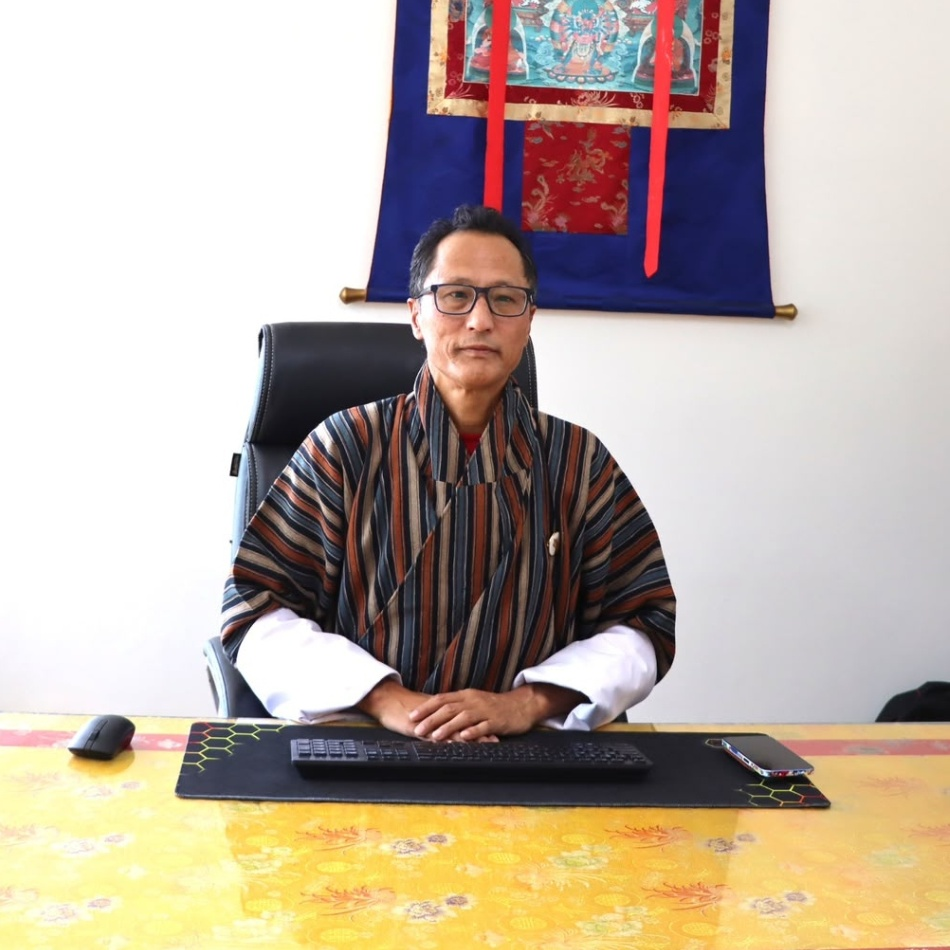
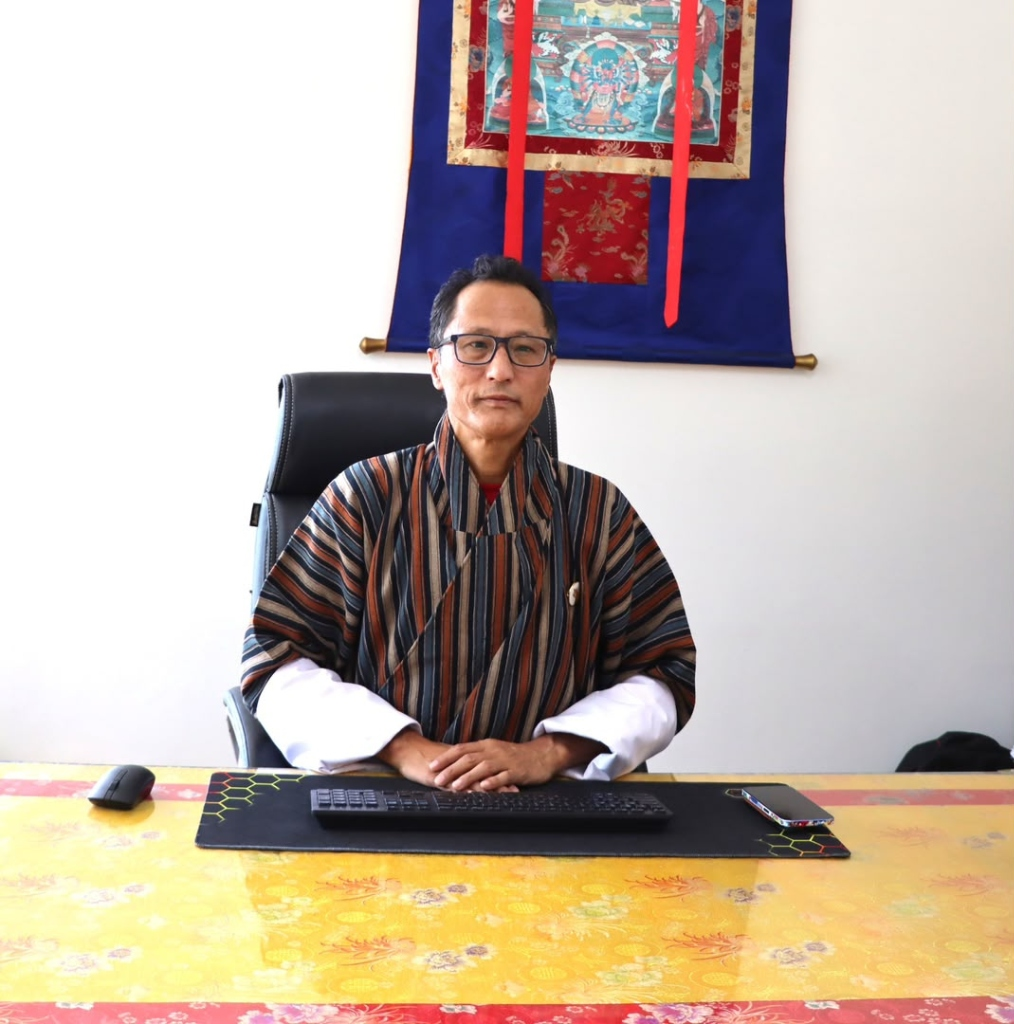
feat(governance): add Mr. Gyambo Sithey, PhD to AMC and Board of Trustees with updated portrait

diff --git a/src/routes/about/trustees.tsx b/src/routes/about/trustees.tsx
@@ -10,6 +10,7 @@ import trusteePemaTshering from "@/assets/bhtf/trustees/pema_tshering.jpg";
 import trusteeUgyenChoden from "@/assets/bhtf/trustees/ugyen_choden.jpg";
 import trusteeNorbuDendup from "@/assets/bhtf/trustees/norbu_dendup.jpeg";
 import trusteeChenchoNamgay from "@/assets/bhtf/trustees/chencho_t_namgay.jpeg";
+import trusteeDrGyambo from "@/assets/bhtf/trustees/dr_gyambo_sithey.jpg";
 import { AboutBottomCapsule } from "@/components/about-bottom-capsule";
 import { useLanguage } from "@/lib/i18n/language-context";
 import { FiduciaryMemberCard, type FiduciaryMember } from "@/components/fiduciary-member-card";
@@ -225,6 +226,34 @@ const trusteesList: FiduciaryMember[] = [
     photo: trusteeDrPhub,
     theme: "emerald",
   },
+  {
+    id: "trustee-gyambo",
+    orderNumber: 8,
+    name: "Mr. Gyambo Sithey, PhD",
+    nameDz: "སྐུ་ཞབས་ རྒྱལ་མཚན་སི་ཐེ། (འབུམ་རམས་པ)",
+    role: "Director & Member Secretary",
+    roleDz: "མདོ་ཆེན། / ཚོགས་མི་དྲུང་ཆེན།",
+    organization: "Director, Bhutan Health Trust Fund Secretariat",
+    organizationDz: "མདོ་ཆེན། འབྲུག་གསོ་བའི་བློ་གཏད་མ་དངུལ་ དྲུང་ཆེན་ཡིག་ཚང་།",
+    badge: "Member Secretary • Article 5.3",
+    badgeDz: "ཚོགས་མི་དྲུང་ཆེན།",
+    desc: "Serves as the ex-officio Member Secretary of the Board of Trustees pursuant to Article 5, Clause 5.3 of the Royal Charter. Heads the Secretariat in executing all Board decisions, managing sovereign endowment disbursements, and steering nationwide healthcare financing.",
+    descDz: "རྒྱལ་པོའི་བཀའ་ཤོག་གི་དགོངས་དོན་ལྟར་ བཀོད་ཚོགས་ཀྱི་ ཚོགས་མི་དྲུང་ཆེན་སྦེ་ ཕྱག་ལཱ་གནང་སྟེ་ བཀོད་ཚོགས་ཀྱི་གྲོས་ཆོད་ཚུ་ ལག་ལེན་འཐབ་ནི་དང་ དྲུང་ཆེན་ཡིག་ཚང་གི་ འགོ་ཁྲིད་གནང་དོ་ཡོད།",
+    tags: [
+      "Ex-Officio Member Secretary",
+      "Executive Directorate",
+      "Board Governance",
+      "Operations & Policy",
+    ],
+    tagsDz: [
+      "ཚོགས་མི་དྲུང་ཆེན།",
+      "དྲུང་ཆེན་ཡིག་ཚང་།",
+      "བཀོད་ཚོགས་གྲོས་ཆོད།",
+      "སྲིད་བྱུས་ལག་ལེན།",
+    ],
+    photo: trusteeDrGyambo,
+    theme: "emerald",
+  },
 ];
 
 function TrusteesPage() {
@@ -298,8 +327,8 @@ function TrusteesPage() {
         </div>
 
         {/* 2. Key Trustees Large 3-Column Grid (#2 to #7) */}
-        <div className="grid grid-cols-1 md:grid-cols-2 lg:grid-cols-3 gap-8 lg:gap-10 max-w-6xl mx-auto">
-          {trusteesList.slice(1).map((member) => (
+        <div className="grid grid-cols-1 md:grid-cols-2 lg:grid-cols-3 gap-8 lg:gap-10 max-w-6xl mx-auto mb-12 sm:mb-16">
+          {trusteesList.slice(1, 7).map((member) => (
             <FiduciaryMemberCard
               key={member.id}
               member={member}
@@ -308,6 +337,24 @@ function TrusteesPage() {
               isDzongkha={isDzongkha}
             />
           ))}
+        </div>
+
+        {/* 3. Director & Member Secretary Featured Anchor Card (#8 Mr. Gyambo Sithey, PhD) */}
+        <div className="max-w-xl mx-auto pt-6 border-t border-slate-200/80">
+          <div className="text-center mb-6 space-y-1">
+            <span className="text-[11px] font-mono font-bold uppercase tracking-widest text-emerald-800">
+              {isDzongkha ? "ལས་འཛིན་དབུ་ཁྲིད། • རྩ་ཁྲིམས་ ༥.༣" : "Executive Directorate • Article 5.3"}
+            </span>
+            <h3 className="font-serif text-xl sm:text-2xl font-black text-slate-900">
+              {isDzongkha ? "མདོ་ཆེན་དང་ ཚོགས་མི་དྲུང་ཆེན།" : "Director & Member Secretary"}
+            </h3>
+          </div>
+          <FiduciaryMemberCard
+            member={trusteesList[7]}
+            isActive={activeCardId === trusteesList[7].id}
+            onToggle={() => handleToggleCard(trusteesList[7].id)}
+            isDzongkha={isDzongkha}
+          />
         </div>
       </section>
 

diff --git a/src/routes/about/committees.tsx b/src/routes/about/committees.tsx
@@ -9,6 +9,7 @@ import {
 import trusteeUgyenChoden from "@/assets/bhtf/trustees/ugyen_choden.jpg";
 import trusteeChenchoNamgay from "@/assets/bhtf/trustees/chencho_t_namgay.jpeg";
 import trusteeNorbuDendup from "@/assets/bhtf/trustees/norbu_dendup.jpeg";
+import trusteeDrGyambo from "@/assets/bhtf/trustees/dr_gyambo_sithey.jpg";
 import { AboutBottomCapsule } from "@/components/about-bottom-capsule";
 import { useLanguage } from "@/lib/i18n/language-context";
 import { FiduciaryMemberCard, type FiduciaryMember } from "@/components/fiduciary-member-card";
@@ -112,6 +113,34 @@ const amcMembersList: FiduciaryMember[] = [
     photo: trusteeNorbuDendup,
     theme: "amber",
   },
+  {
+    id: "amc-gyambo",
+    orderNumber: 4,
+    name: "Mr. Gyambo Sithey, PhD",
+    nameDz: "སྐུ་ཞབས་ རྒྱལ་མཚན་སི་ཐེ། (འབུམ་རམས་པ)",
+    role: "Director & Member Secretary, AMC",
+    roleDz: "མདོ་ཆེན། / ཚོགས་མི་དྲུང་ཆེན། (AMC)",
+    organization: "Director, Bhutan Health Trust Fund Secretariat",
+    organizationDz: "མདོ་ཆེན། འབྲུག་གསོ་བའི་བློ་གཏད་མ་དངུལ་ དྲུང་ཆེན་ཡིག་ཚང་།",
+    badge: "Director / Member Secretary",
+    badgeDz: "AMC ཚོགས་མི་དྲུང་ཆེན།",
+    desc: "Serves as Member Secretary to the Asset Management Committee, executing strategic investment mandates, portfolio allocation decisions, and liquidity deployment under the 70–20–10 model. Coordinates quarterly investment reviews and statutory yield reporting to the Board.",
+    descDz: "མ་རྩ་བདག་སྐྱོང་ཚོགས་ཆུང་གི་ ཚོགས་མི་དྲུང་ཆེན་སྦེ་ ཕྱག་ལཱ་གནང་སྟེ་ མ་དངུལ་སྐྱེད་འཕེལ་དང་ ༧༠-༢༠-༡༠ ལག་ལེན་ཐབས་བྱུས་ཚུ་ ལག་ལེན་འཐབ་ནི་དང་ བཀོད་ཚོགས་ལུ་ དུས་ཐོག་སྙན་ཞུ་ཕུལ་དོ་ཡོད།",
+    tags: [
+      "Investment Execution",
+      "Member Secretary",
+      "Operational Liquidity",
+      "Statutory Reporting",
+    ],
+    tagsDz: [
+      "མ་རྩ་ལག་ལེན།",
+      "ཚོགས་མི་དྲུང་ཆེན།",
+      "དངུལ་རྩིས་ལྟ་རྟོག",
+      "ཁྲིམས་མཐུན་སྙན་ཞུ།",
+    ],
+    photo: trusteeDrGyambo,
+    theme: "amber",
+  },
 ];
 
 function CommitteesPage() {
@@ -174,8 +203,8 @@ function CommitteesPage() {
           </div>
         </div>
 
-        {/* 3 AMC Members in Large Responsive 3-Column Grid */}
-        <div className="grid grid-cols-1 md:grid-cols-3 gap-8 lg:gap-10 max-w-6xl mx-auto">
+        {/* 4 AMC Members (Chairperson, 2 Members, Director & Member Secretary) */}
+        <div className="grid grid-cols-1 sm:grid-cols-2 lg:grid-cols-4 gap-6 lg:gap-8 max-w-7xl mx-auto">
           {amcMembersList.map((member) => (
             <FiduciaryMemberCard
               key={member.id}

diff --git a/src/routes/about/secretariat.tsx b/src/routes/about/secretariat.tsx
@@ -61,7 +61,7 @@ const secretariatMembers: SecretariatMember[] = [
   {
     id: "director-gyambo-sithey",
     orderNumber: 1,
-    name: "Dr. Gyambo Sithey, PhD",
+    name: "Mr. Gyambo Sithey, PhD",
     nameDz: "སྐུ་ཞབས་ འགྱུར་མེད་སྲིད་ཐེད། (འབུམ་རམས་པ།)",
     designation: "Director & Member Secretary",
     designationDz: "མདོ་ཆེན། དྲུང་ཆེན་ཡིག་ཚང་། (ཚོགས་ཆུང་གི་དྲུང་ཆེན།)",
